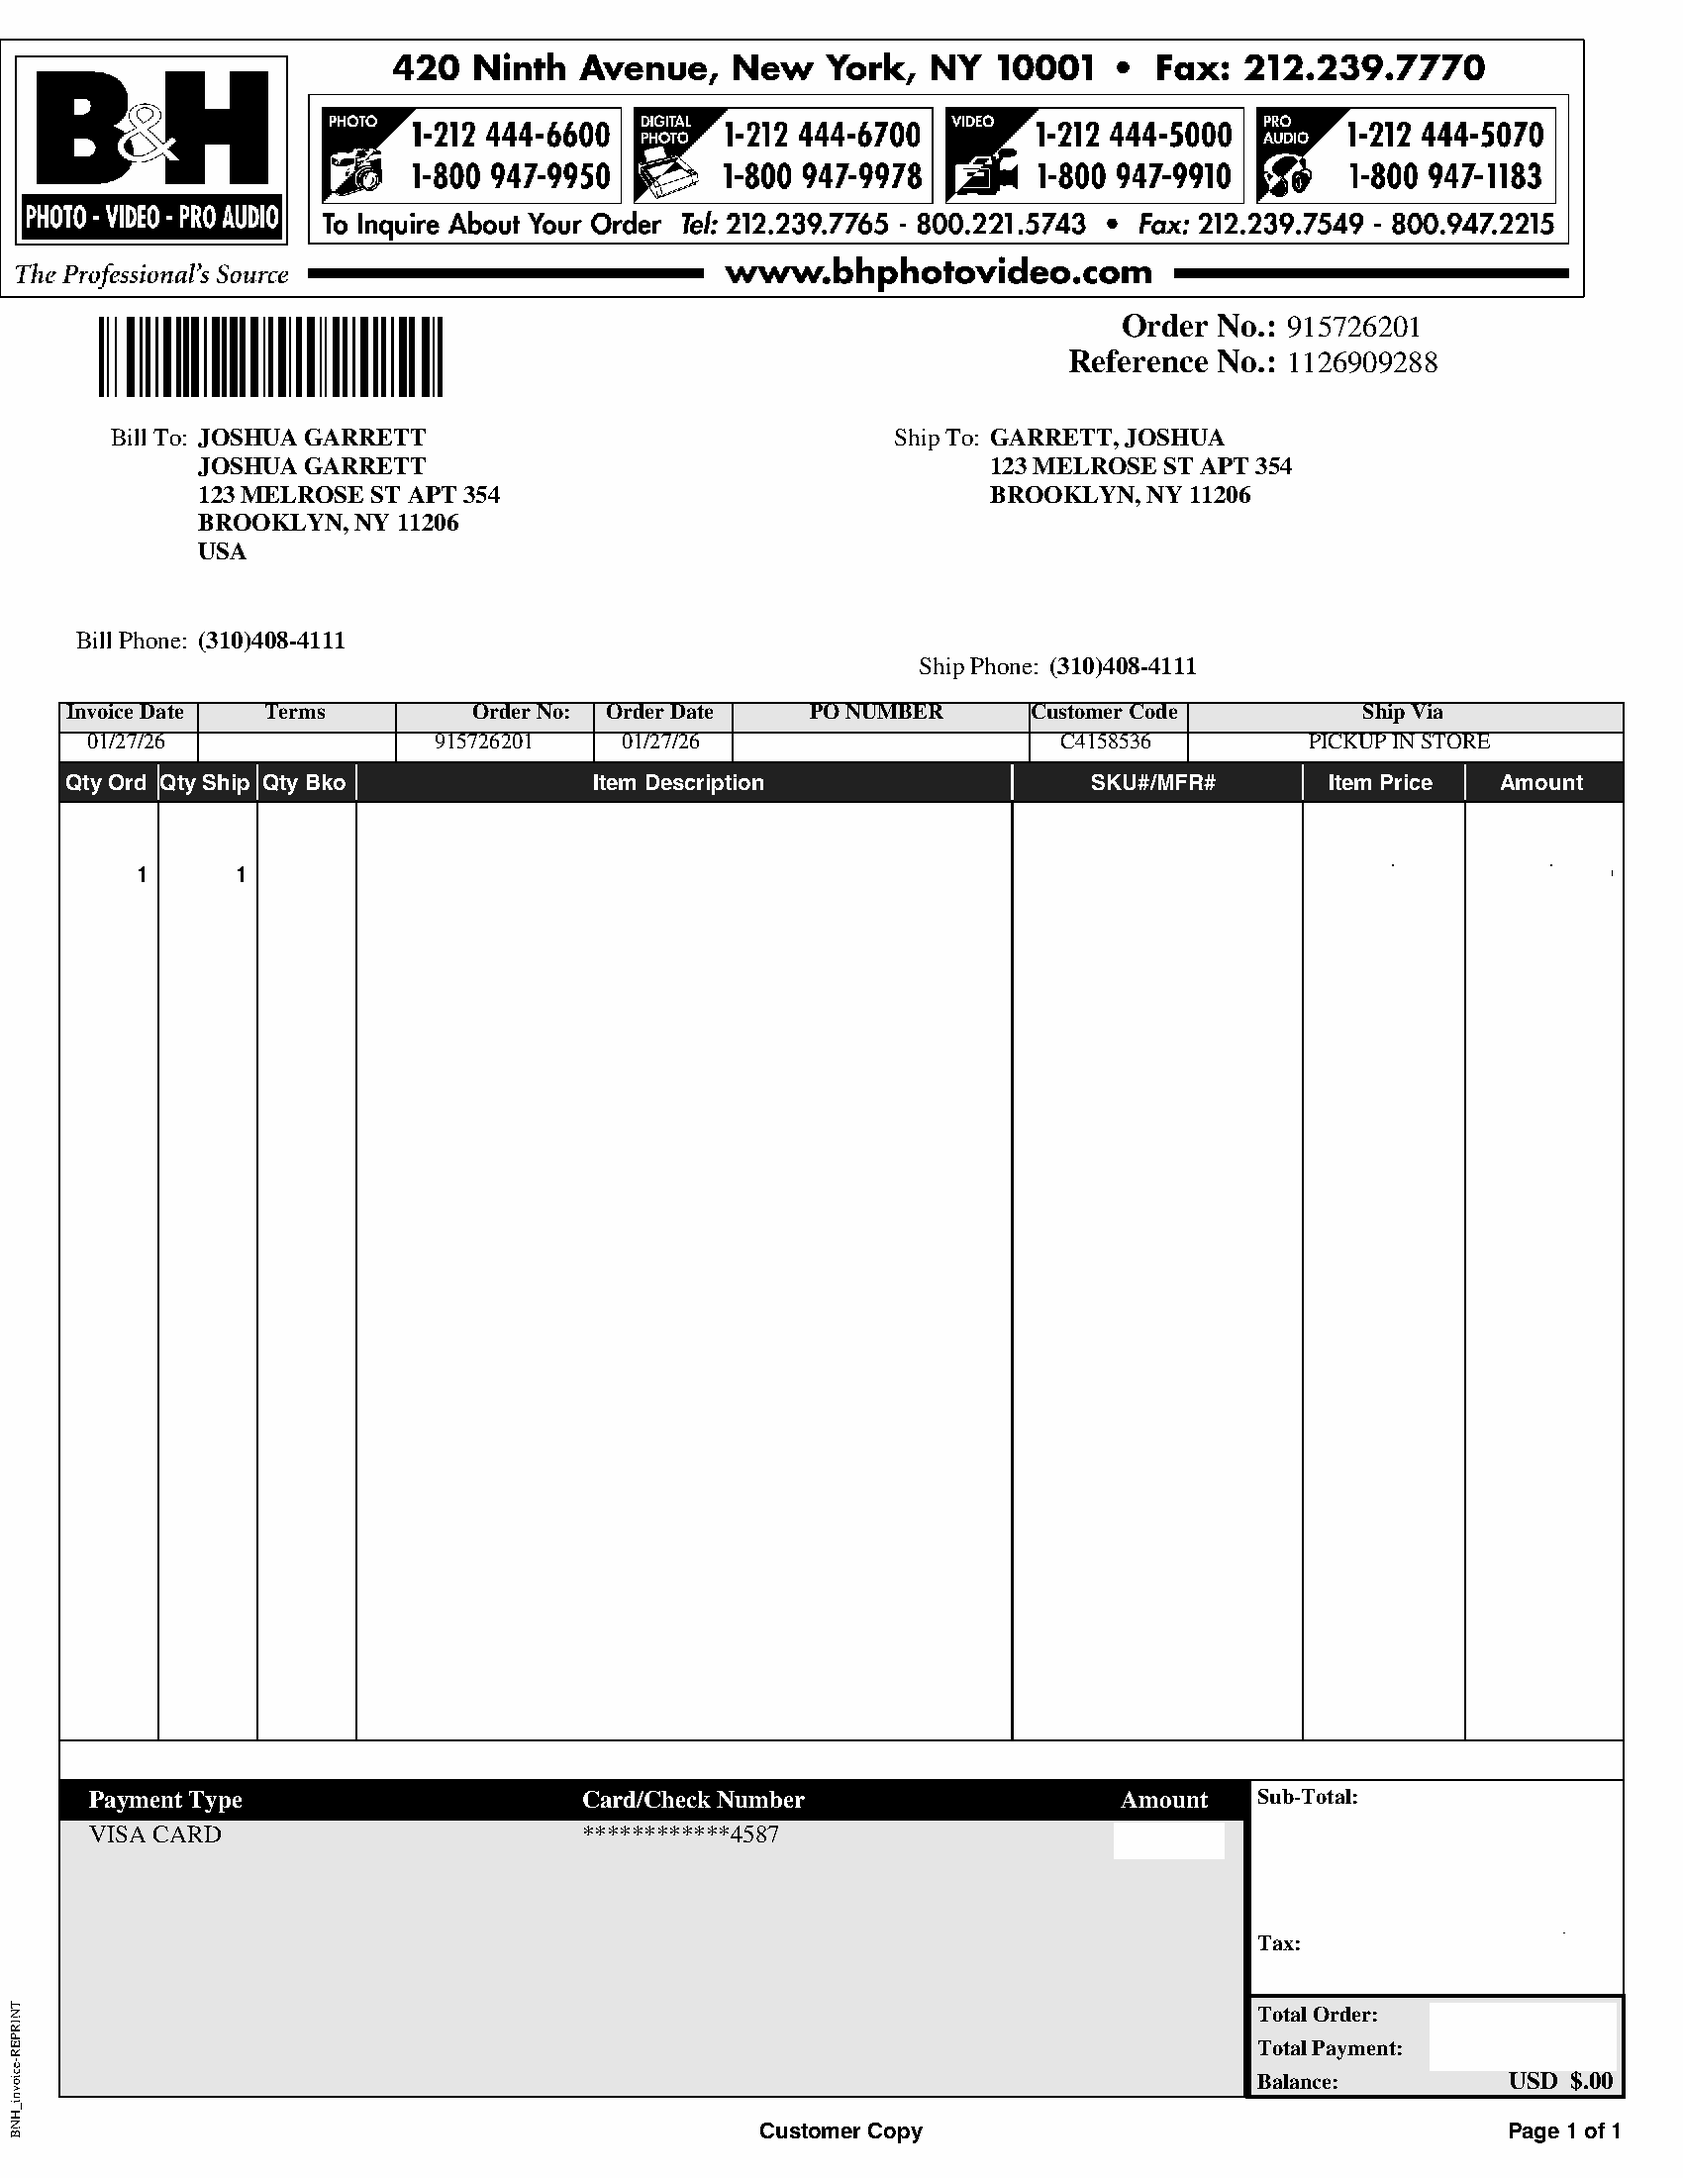
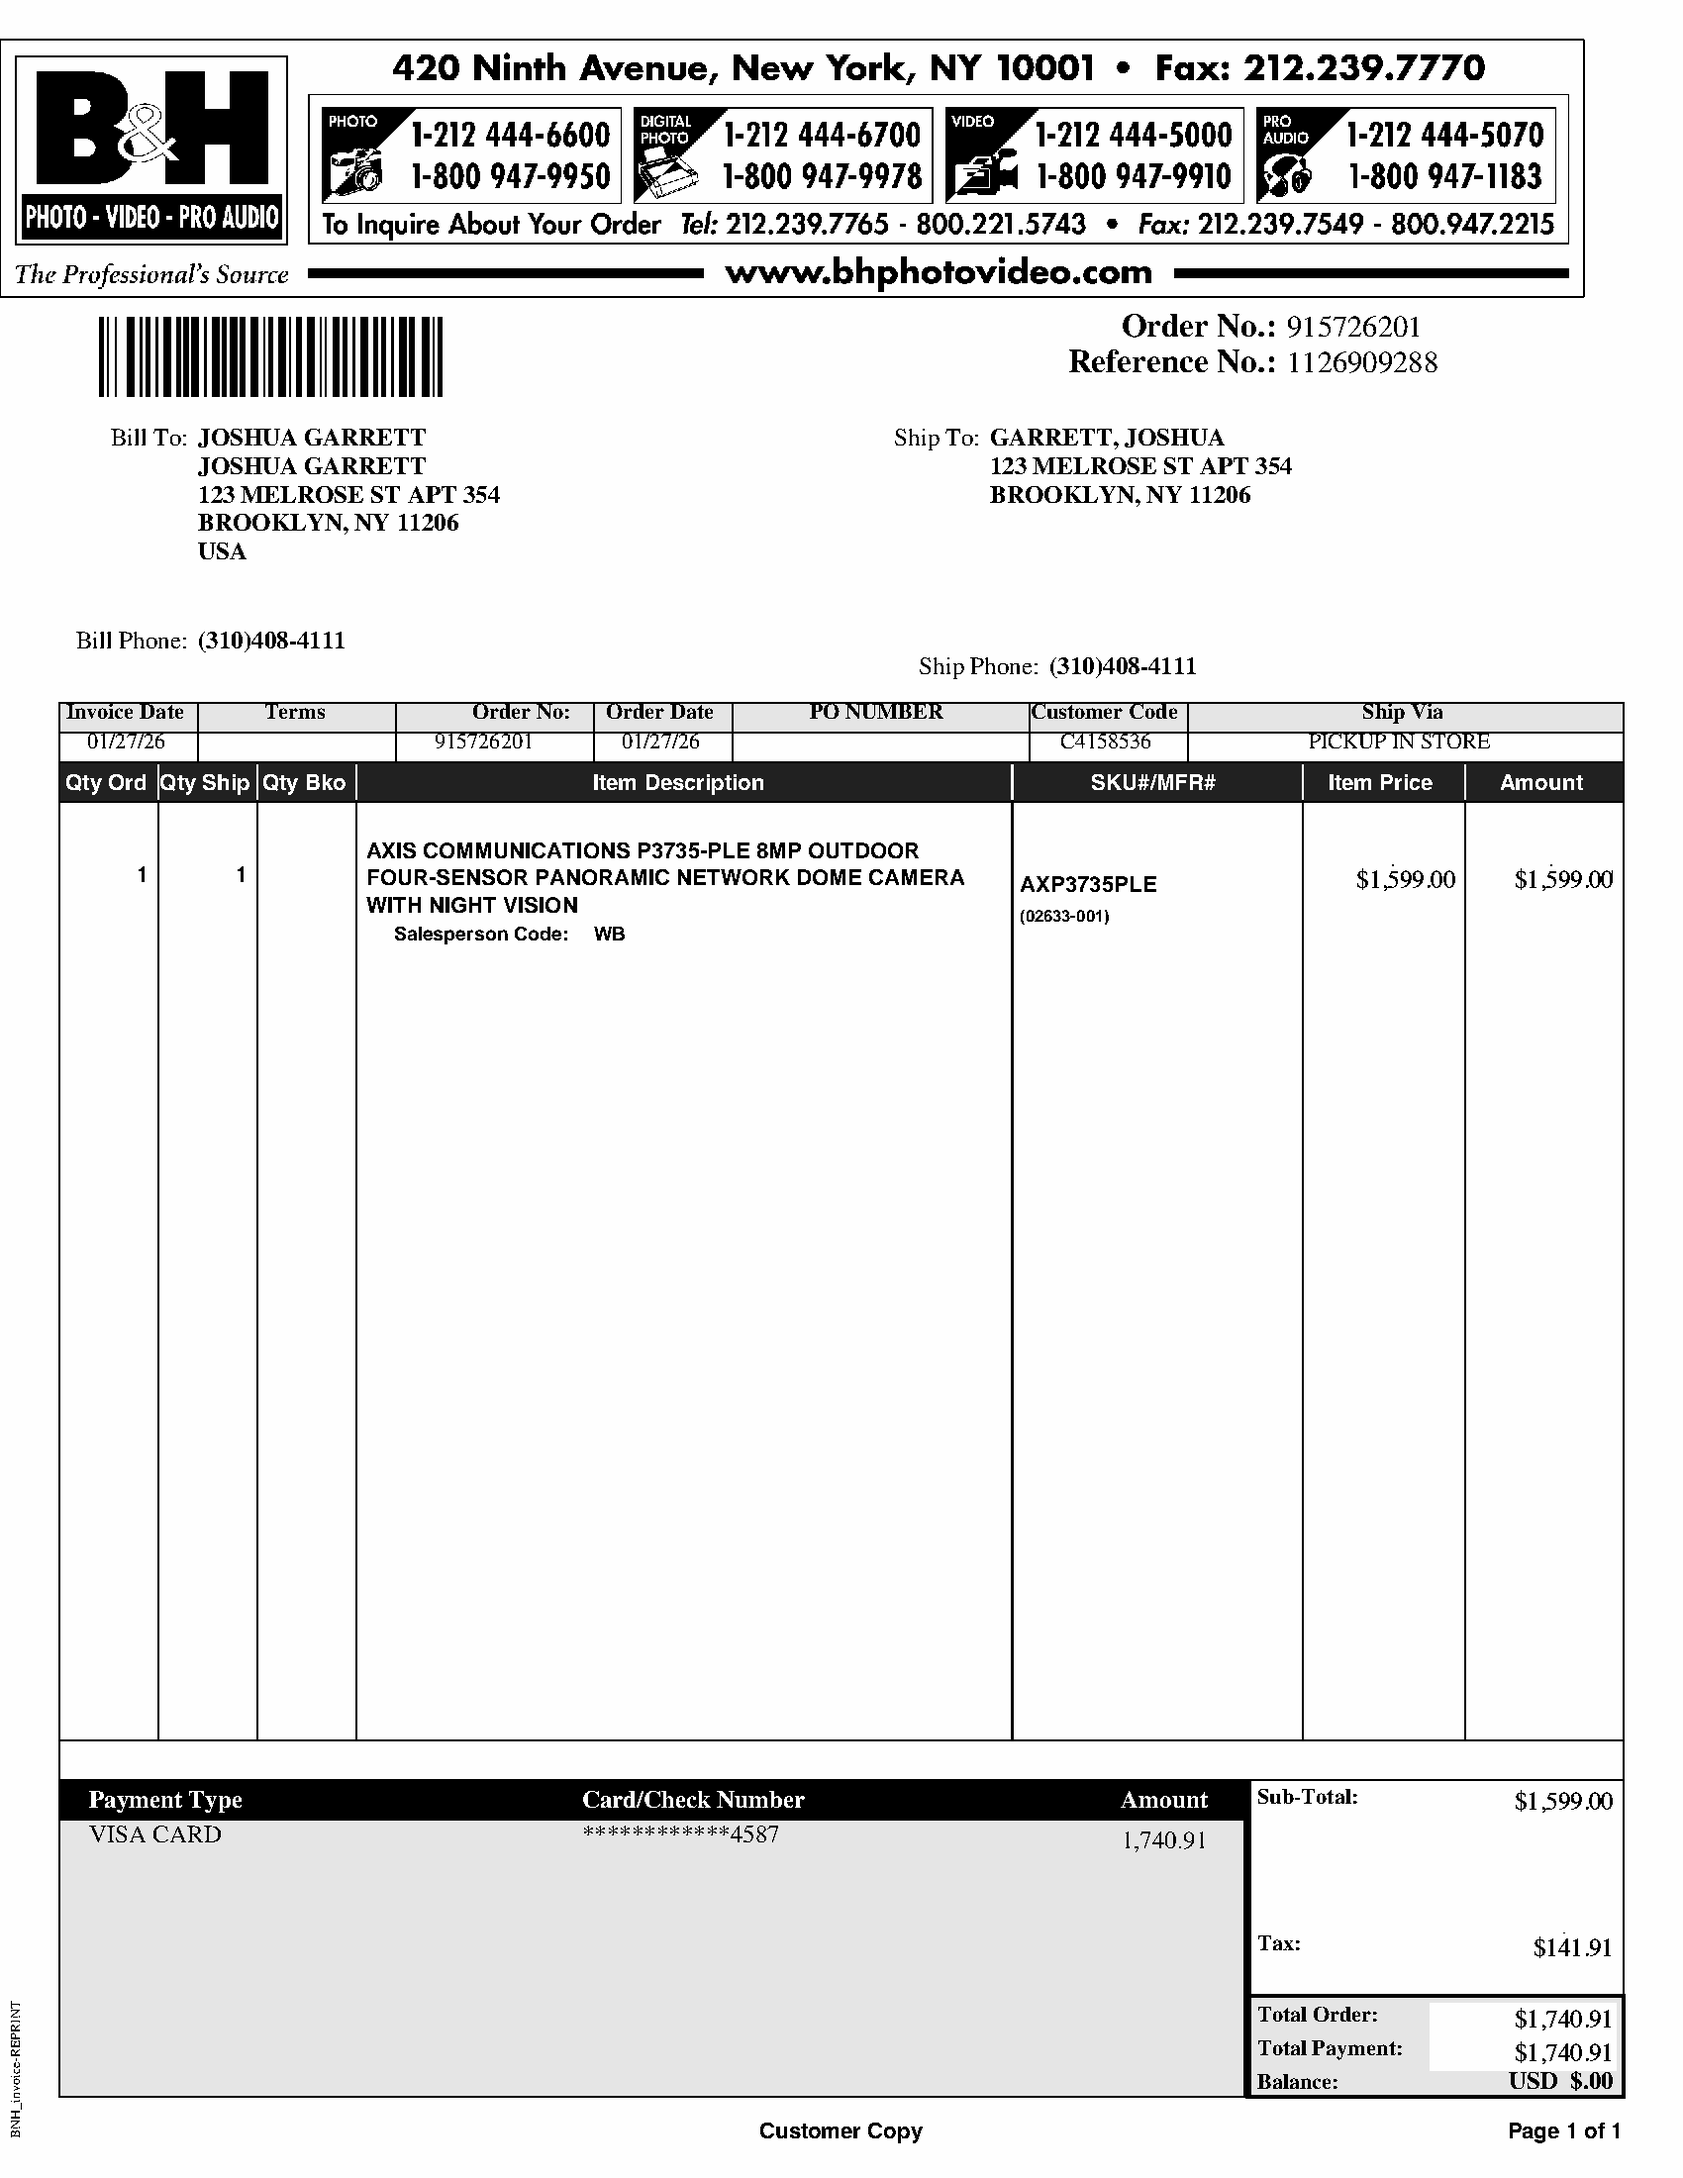
Fix receipt overlay colors and text

diff --git a/update_receipt_from_template.py b/update_receipt_from_template.py
@@ -42,10 +42,16 @@ def generate_overlay() -> BytesIO:
     page_width, page_height = letter
     c = canvas.Canvas(buffer, pagesize=(page_width, page_height))
 
-    # White rectangles to cover old values (keep borders visible).
-    def cover_rect(x0: float, y0: float, x1: float, y1: float) -> None:
-        c.setFillColorRGB(1, 1, 1)
-        c.setStrokeColorRGB(1, 1, 1)
+    # Rectangles to cover old values (keep borders visible).
+    def cover_rect(
+        x0: float,
+        y0: float,
+        x1: float,
+        y1: float,
+        fill_rgb: tuple[float, float, float] = (1, 1, 1),
+    ) -> None:
+        c.setFillColorRGB(*fill_rgb)
+        c.setStrokeColorRGB(*fill_rgb)
         c.rect(x0, y0, x1 - x0, y1 - y0, fill=1, stroke=0)
 
     # Item row areas (description, SKU, price, amount).
@@ -60,8 +66,12 @@ def generate_overlay() -> BytesIO:
     cover_rect(520.0, 51.0, 588.0, 63.5)  # Total Order value
     cover_rect(520.0, 39.0, 588.0, 51.5)  # Total Payment value
 
-    # Payment amount value.
-    cover_rect(405.0, 116.0, 445.0, 129.0)
+    # Payment amount value (within gray payment box).
+    payment_gray = (229 / 255, 229 / 255, 229 / 255)
+    cover_rect(405.0, 116.0, 445.0, 129.0, fill_rgb=payment_gray)
+
+    # Reset fill color for text.
+    c.setFillColorRGB(0, 0, 0)
 
     # New product details.
     desc = (
